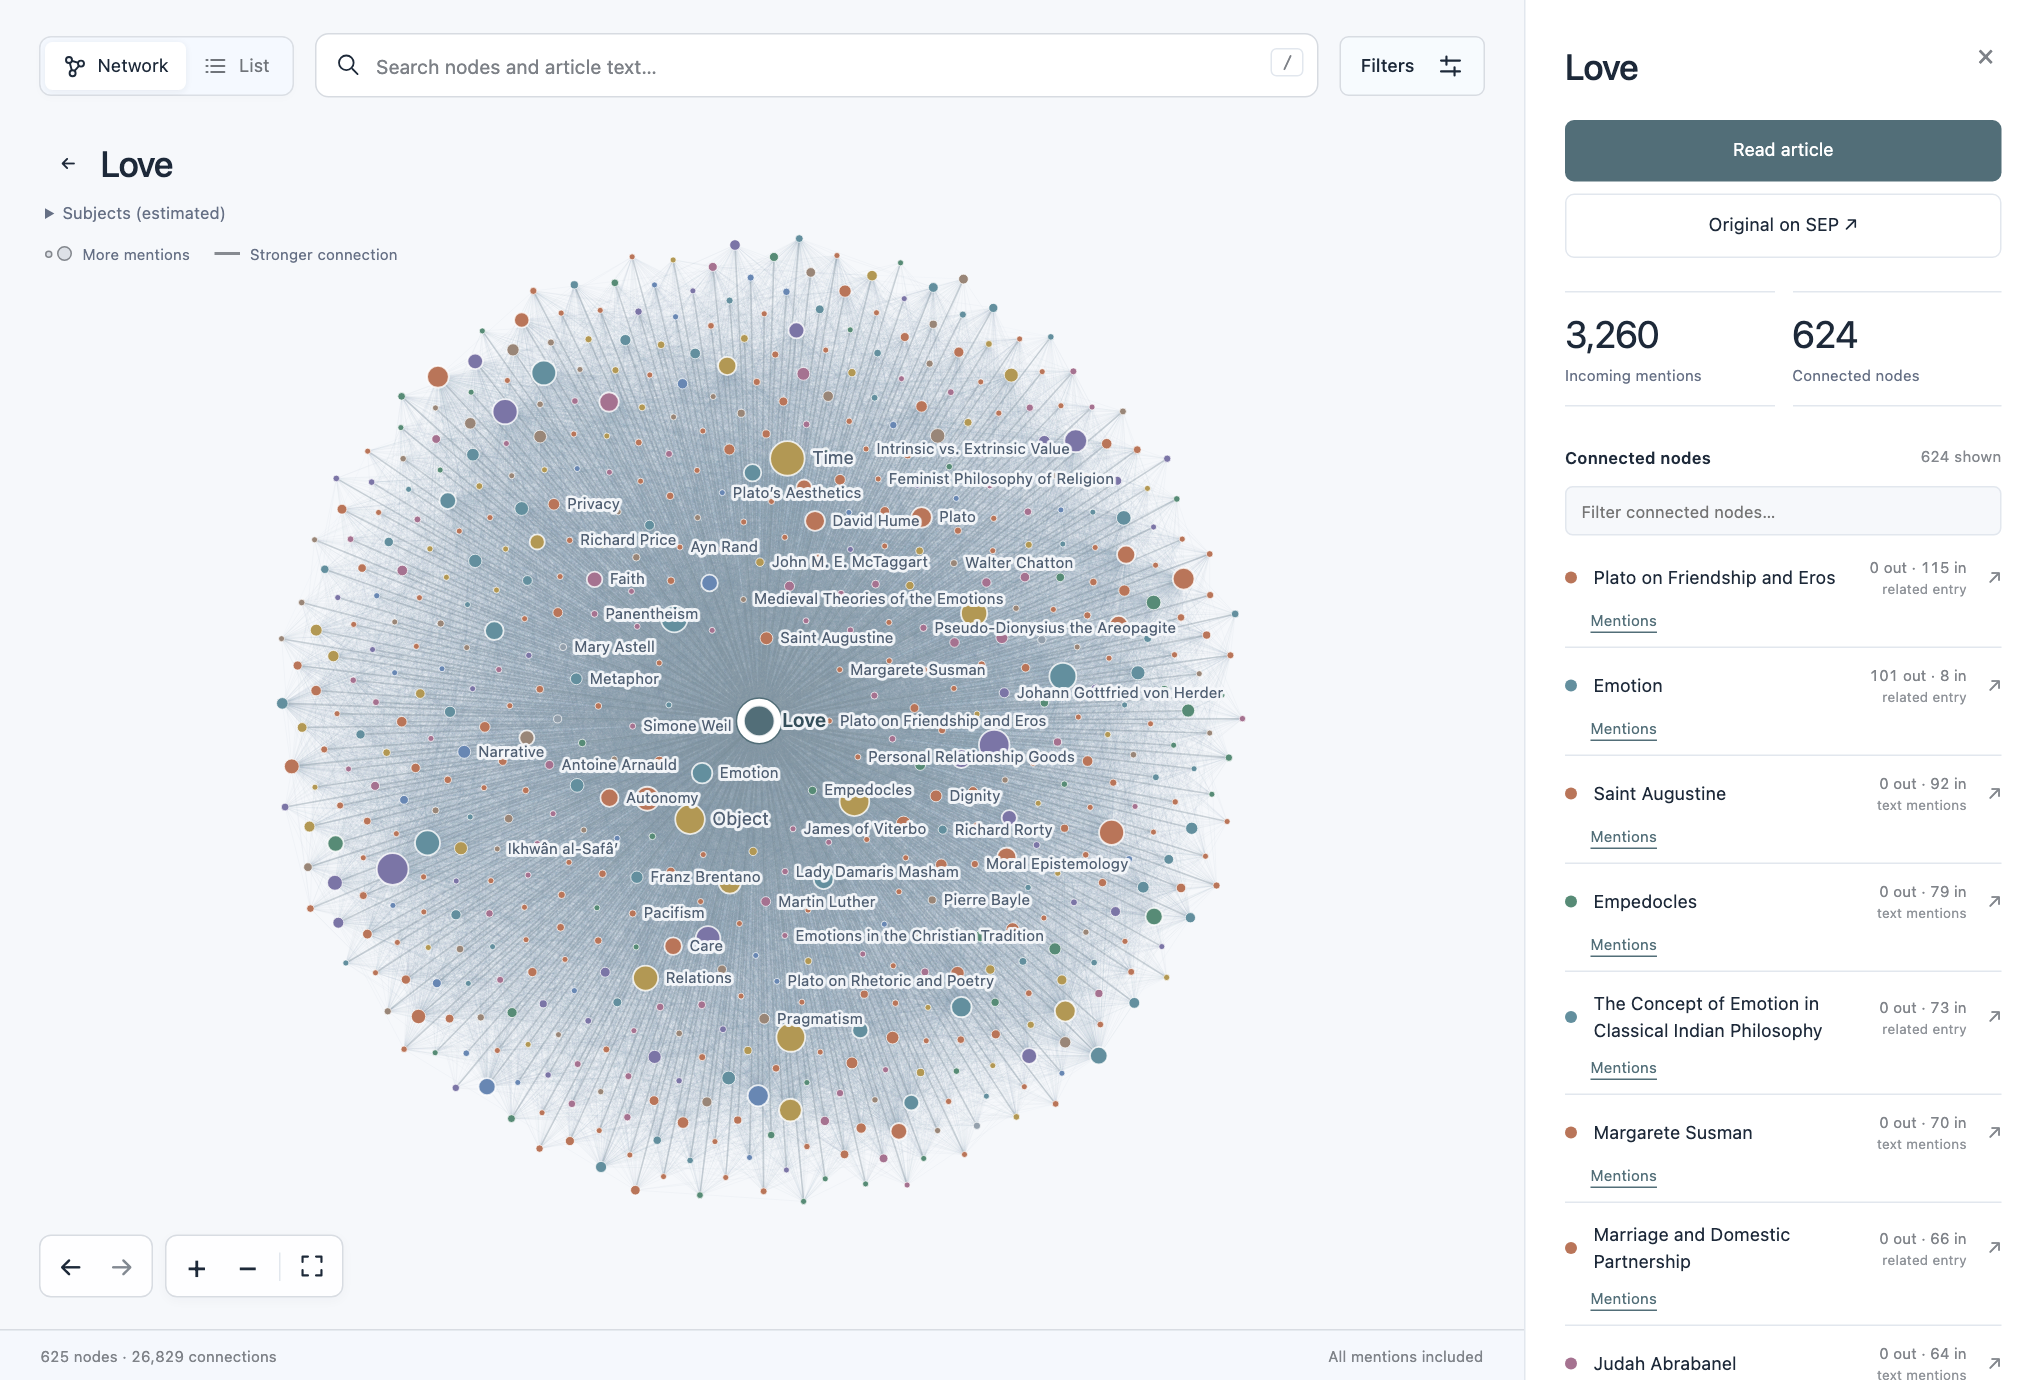
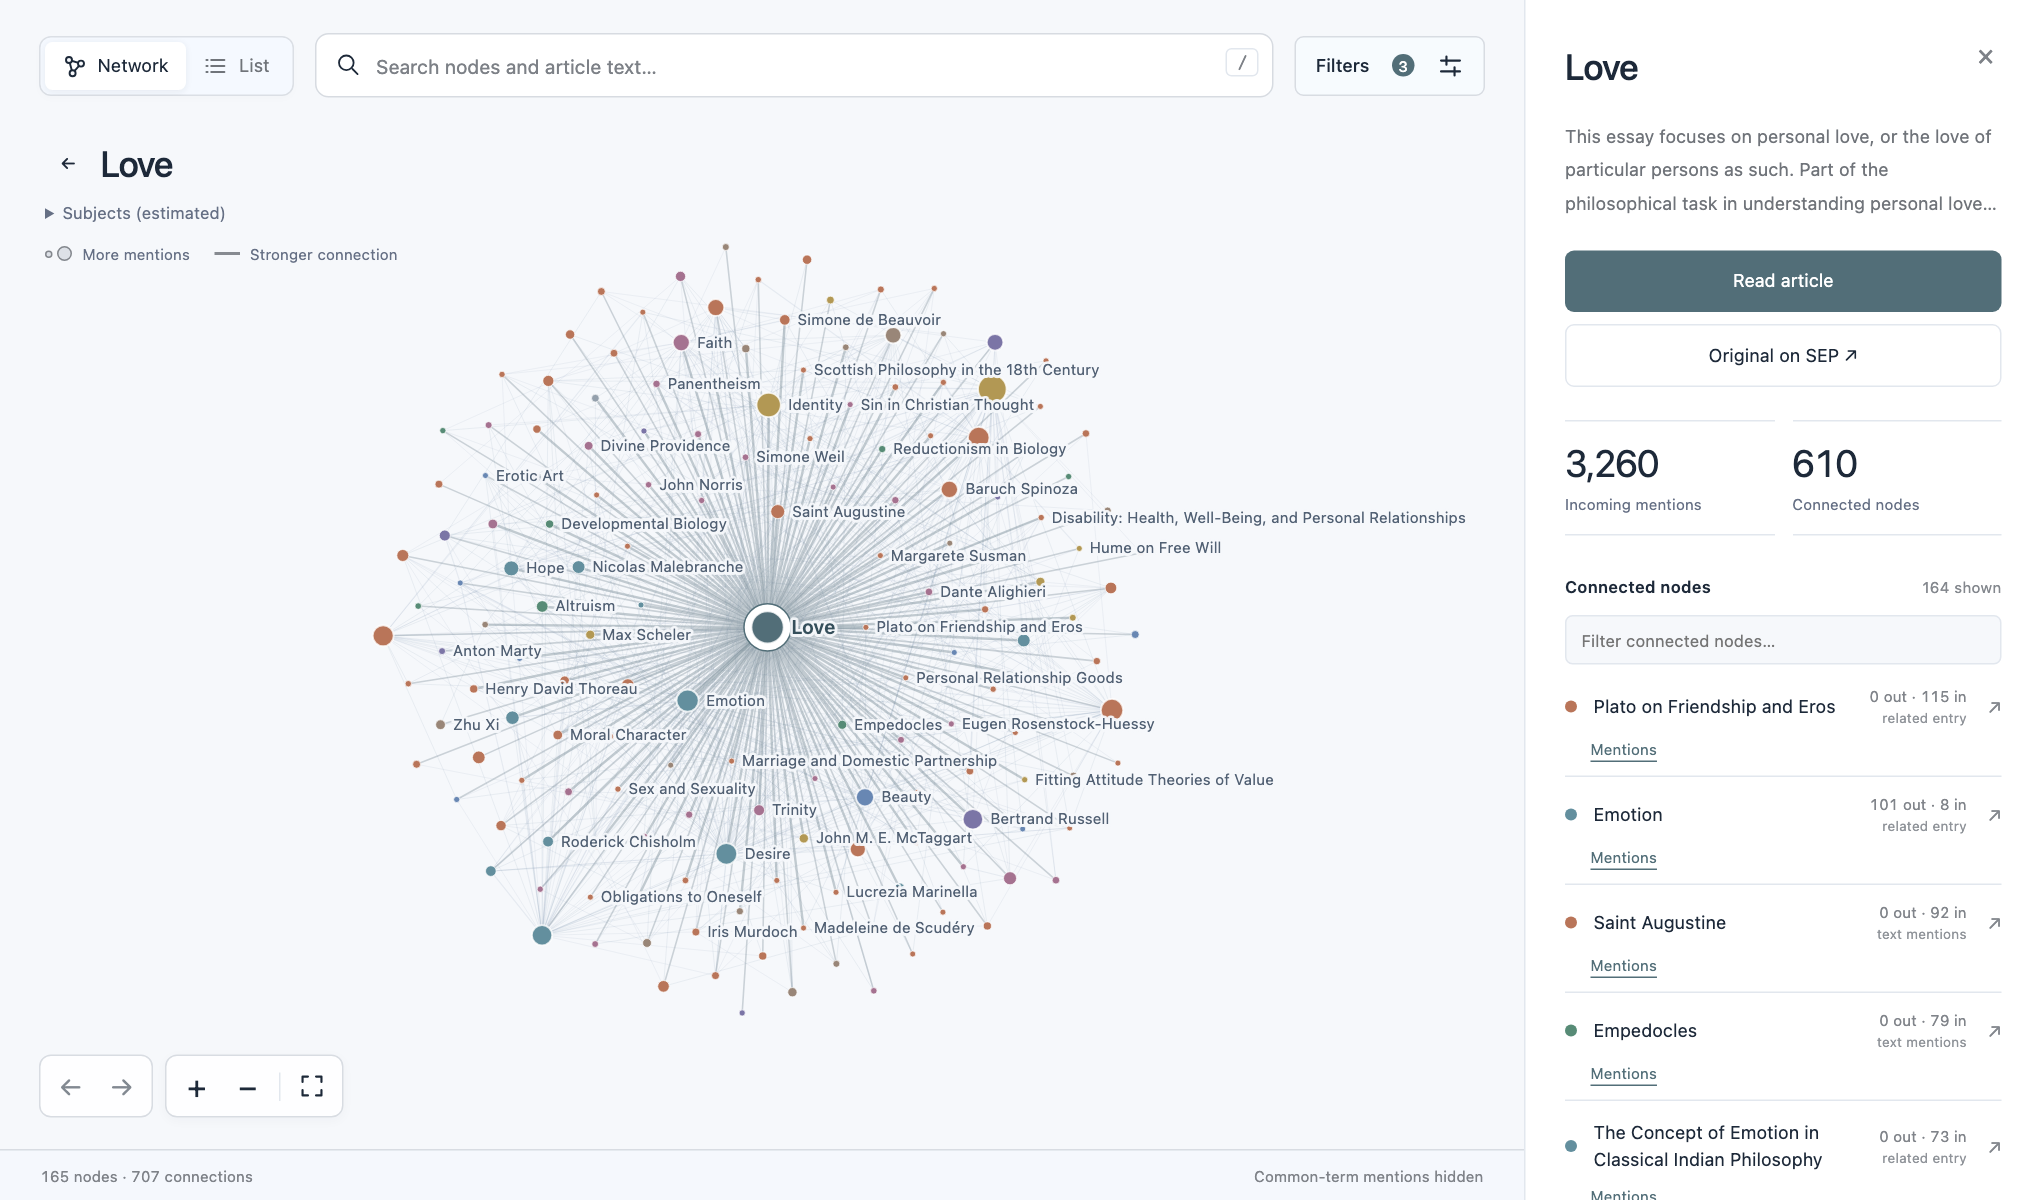
Show the default Love graph and a readable Confucius mention

diff --git a/README.md b/README.md
@@ -4,13 +4,17 @@ Explore how articles in the Stanford Encyclopedia of Philosophy mention people a
 
 ![The home screen with the encyclopedia network and no node selected](docs/screenshots/home.png)
 
-With all node types and common terms included and the minimum set to one mention, **Love** has 624 neighbours, from _Friendship_ to _Saint Augustine_. Select it to see how often the articles mention each other and which ones the SEP lists as related entries.
+Select **Love** to see its 164 neighbours under the default filters. The sidebar shows mentions in both directions and identifies articles the SEP lists as related entries.
 
-![Love with its complete network and the connected articles in the sidebar](docs/screenshots/love.png)
+![Love selected on a laptop, with default filters and the article details sidebar open](docs/screenshots/love.png)
 
-Select **Music**, find **Confucius** in the sidebar, and choose **Mentions**. The 18 results each open the Confucius entry at the highlighted sentence. The screenshot shows the matched words and omits the surrounding article text.
+Select **Music** and find **Confucius** in the sidebar. Choose **Mentions** to see the 18 passages where the Confucius entry mentions music. Selecting a passage takes you to that sentence in the article.
 
-![Music’s full network with the Music and Confucius Mentions panel open](docs/screenshots/music.png)
+![Music selected with the Confucius connection and its Mentions button in the sidebar](docs/screenshots/music.png)
+
+![The first Music and Confucius passage with the word “music” highlighted and a link to the introduction](docs/screenshots/mentions.png)
+
+The brief excerpts in these screenshots are from the _Stanford Encyclopedia of Philosophy_. [“Love” by Bennett Helm](https://plato.stanford.edu/entries/love/) · [“Confucius” by Mark Csikszentmihalyi](https://plato.stanford.edu/entries/confucius/)
 
 ## Run locally
 

diff --git a/COPYRIGHT.md b/COPYRIGHT.md
@@ -2,7 +2,7 @@
 
 The [MIT License](LICENSE) applies to Plato Explorer's original code and accompanying documentation. The license grants no rights to the SEP corpus or other third-party material.
 
-**This repository excludes the Stanford Encyclopedia of Philosophy corpus.** It contains the application, build scripts, matching rules, tests and screenshots of the explorer interface. The source dataset, article text, generated graph files, search index, and build reports are excluded from Git.
+**This repository excludes the Stanford Encyclopedia of Philosophy corpus.** It contains the application, build scripts, matching rules, tests and screenshots of the explorer interface. A few lines from the Love and Confucius entries appear in the README screenshots, with the authors credited there. Source datasets, full entries, generated graph files, the search index and build reports are excluded from Git.
 
 The authors of individual SEP entries generally retain copyright in their work. The Metaphysics Research Lab at Stanford University holds copyright in the Stanford Encyclopedia of Philosophy as a whole. Plato Explorer is an independent project with no affiliation with or endorsement by Stanford University or the SEP. [SEP copyright information](https://plato.stanford.edu/info.html#c)
 

diff --git a/AGENTS.md b/AGENTS.md
@@ -6,7 +6,7 @@ These instructions apply to work in Plato Explorer. Start with the [project hand
 
 - Never use the Sites feature. Create new projects as local Git repositories.
 - Deploy only when the user explicitly requests deployment and specifies or agrees to the destination.
-- For Plato Explorer, publish source to GitHub. Keep downloaded SEP materials, generated corpus files, article screenshots, build reports, browser snapshots and deployment credentials out of Git and releases. Show the app and sidebar in README screenshots. Omit SEP article prose, including the surrounding text of Mentions results. See the [copyright notice](COPYRIGHT.md).
+- For Plato Explorer, publish source to GitHub. Keep downloaded SEP materials, generated corpus files, article screenshots, build reports, browser snapshots and deployment credentials out of Git and releases. Show the app and sidebar in README screenshots. README screenshots may show a brief, readable excerpt to illustrate a feature. Credit the entry and its author beside the screenshots. See the [copyright notice](COPYRIGHT.md).
 
 Keep the README focused on the explorer, screenshots, local setup and copyright. Keep handoff and release notes in `docs/`. Omit links to the deployed app from the repository.
 
